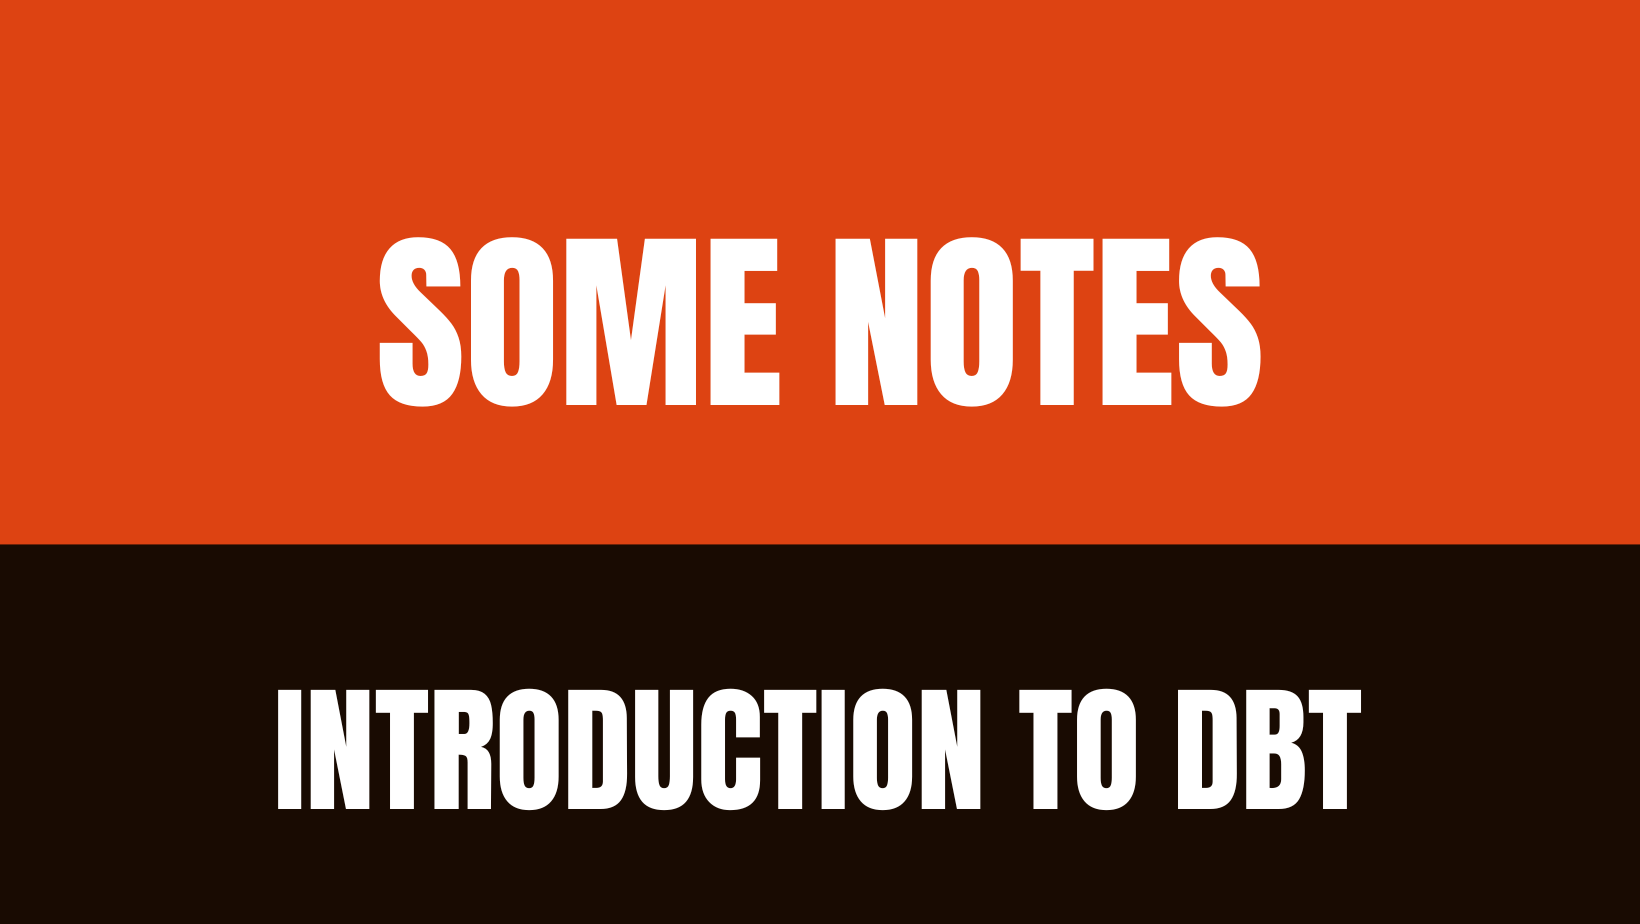
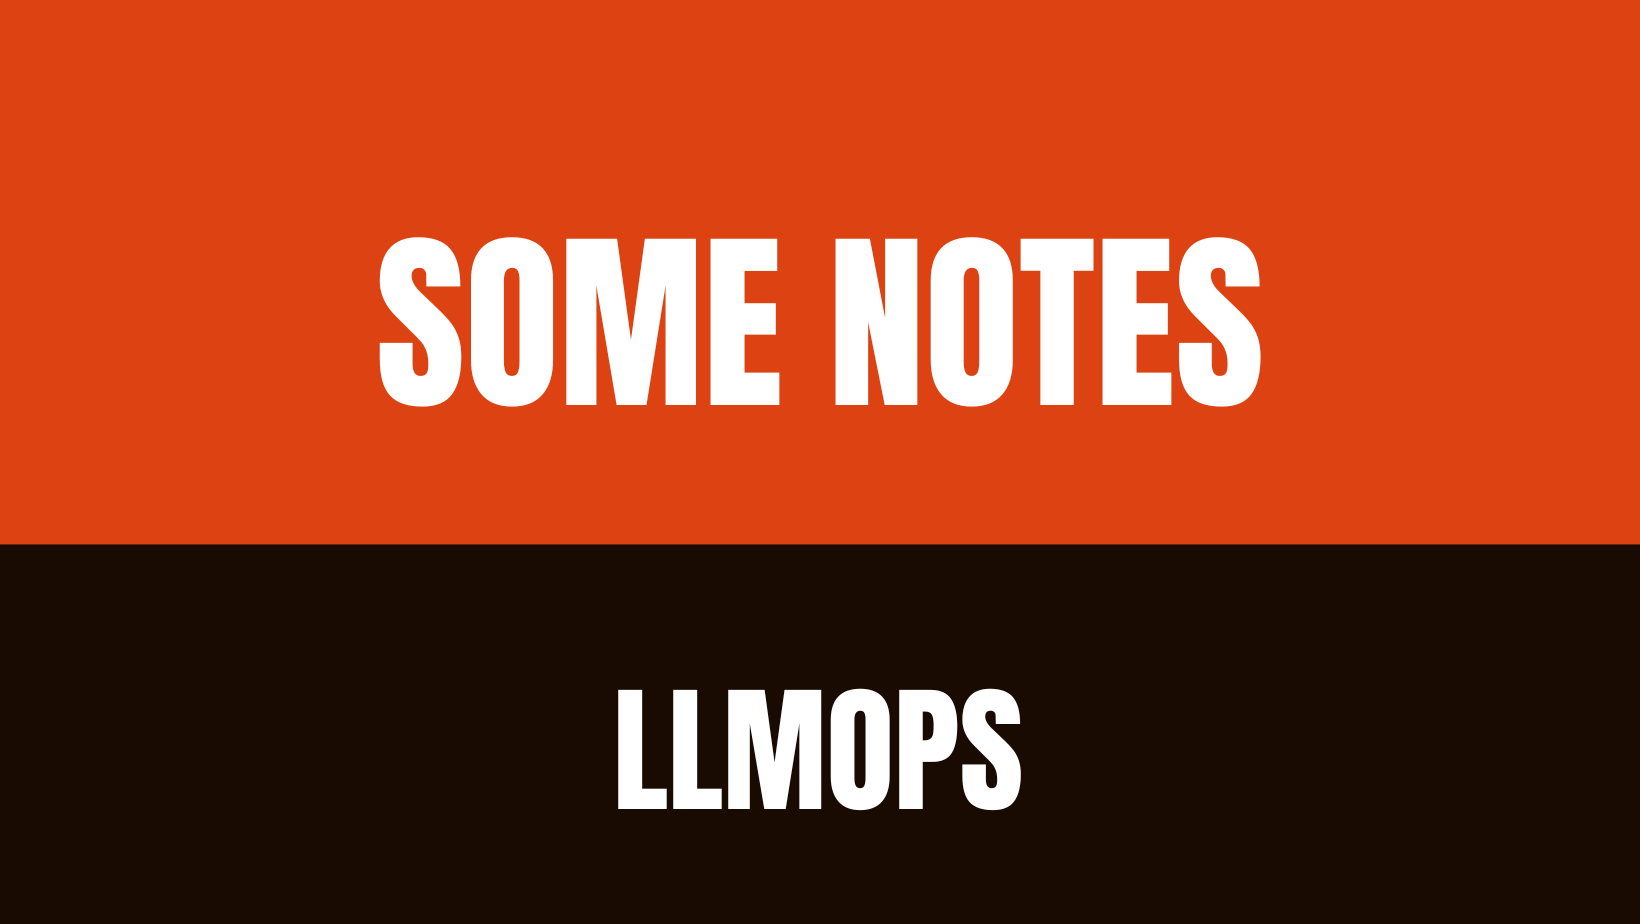
llmops certification

Changed region(s): [[0.1555, 0.7273, 0.8396, 0.8788]]

diff --git a/docs/index.html b/docs/index.html
@@ -232,7 +232,7 @@ window.Quarto = {
 </section>
 <div class="quarto-listing quarto-listing-container-default" id="listing-listing">
 <div class="list quarto-listing-default">
-<div class="quarto-post image-right" data-index="0" data-categories="data engineering,AI" data-listing-date-sort="1743303600000" data-listing-file-modified-sort="1743345672035" data-listing-date-modified-sort="NaN" data-listing-reading-time-sort="19" data-listing-word-count-sort="3651">
+<div class="quarto-post image-right" data-index="0" data-categories="data engineering,AI" data-listing-date-sort="1743303600000" data-listing-file-modified-sort="1743346054984" data-listing-date-modified-sort="NaN" data-listing-reading-time-sort="19" data-listing-word-count-sort="3651">
 <div class="thumbnail">
 <p><a href="./posts/0030-llm-ops/index.html" class="no-external"></a></p><a href="./posts/0030-llm-ops/index.html" class="no-external">
 <p><img loading="lazy" src="./posts/0030-llm-ops/banner.png" class="thumbnail-image"></p>

diff --git a/docs/header-certifications.html b/docs/header-certifications.html
@@ -184,6 +184,7 @@ ul.task-list li input[type="checkbox"] {
 
 <section id="section" class="level2">
 <h2 class="anchored" data-anchor-id="section">2025</h2>
+<p><img src="images/download-01.png" class="img-fluid" width="31"> [03/25] <a href="https://www.datacamp.com/statement-of-accomplishment/course/cda7c01ab5701f51a2c243b164f108ccb2295dad?raw=1">LLMOps</a></p>
 <p><img src="images/download-01.png" class="img-fluid" width="31"> [03/25] <a href="https://www.datacamp.com/statement-of-accomplishment/course/9bac22996d315d3b93ffc9c9efd43a575ad6cbf8?raw=1">Intermediate dbt</a></p>
 <p><img src="images/hubspot-1.svg" class="img-fluid" width="32"> [01/25] <a href="https://app.hubspot.com/academy/achievements/v1rmqssq/en/1/vinicius-felix/service-hub-software">Service Hub</a></p>
 </section>

diff --git a/docs/header-about.html b/docs/header-about.html
@@ -201,10 +201,10 @@ ul.task-list li input[type="checkbox"] {
 <h1>Professional Experience</h1>
 <table class="caption-top table">
 <colgroup>
-<col style="width: 21%">
-<col style="width: 24%">
-<col style="width: 21%">
-<col style="width: 32%">
+<col style="width: 25%">
+<col style="width: 25%">
+<col style="width: 25%">
+<col style="width: 25%">
 </colgroup>
 <thead>
 <tr class="header">
